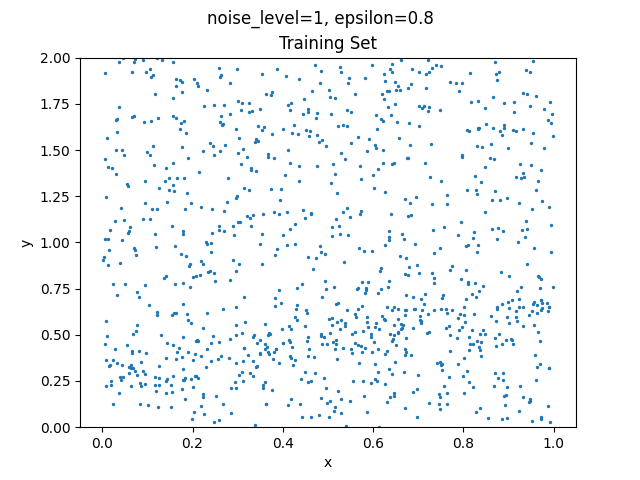
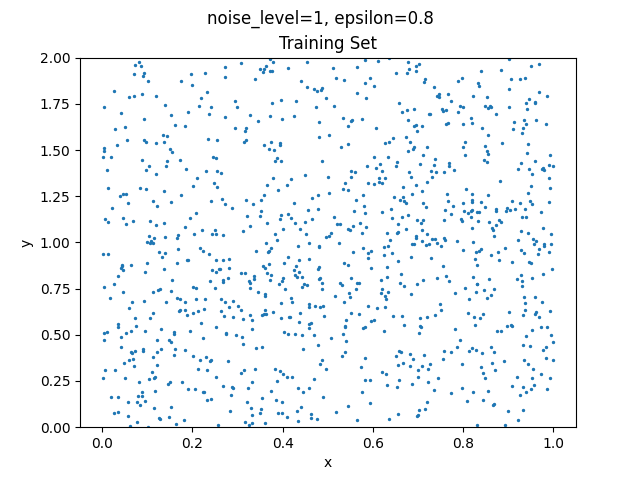
edge

diff --git a/main.py b/main.py
@@ -160,7 +160,50 @@ def test_random_contamination(training_size: int = 100, testing_size: int = 900,
     plt.savefig("random_contamination")
 
 
+def test_edge_contamination(training_size: int = 100, testing_size: int = 900, noise_level: float = 0.1, epsilon: float = 0.1):
+    rng = np.random.default_rng()
+    w = generate_random_weights()
+    
+    X_training, y_training = generate_X_and_y(w, training_size, noise_level) 
+    X_contamination = np.max(X_training) - rng.random((int(training_size * epsilon/ 2), 1)) /10
+    Y_contamination = rng.random(int(training_size * epsilon/ 2))/10  * w.shape[0]
+    indices = rng.choice(training_size, int(training_size * epsilon /2), False)
+    X_training[indices] = X_contamination
+    y_training[indices] = Y_contamination
+
+    X_contamination = rng.random((int(training_size * epsilon/ 2), 1)) /10
+    Y_contamination = np.max(y_training) - rng.random(int(training_size * epsilon/ 2)) /10 *  w.shape[0]
+    indices = rng.choice(training_size, int(training_size * epsilon /2), False)
+    X_training[indices] = X_contamination
+    y_training[indices] = Y_contamination
+    X_testing, y_testing = generate_X_and_y(w, 1000, 0)
+    w_bar = mini_batch_gradient_descent(X_training, y_training, batch_size=100, epsilon=epsilon)
+    y_bar = predict(X_testing, w_bar)
+    mse = mean_squared_error(y_bar, y_testing)
+    print(f"True weight vector: {w}")
+    print(f"Estimated weight vector: {w_bar}")
+    plt.figure()
+    plt.scatter(X_training[:, 0], y_training, s=2)
+    plt.suptitle("noise_level=0, epsilon=0")
+    plt.title("Training Set")
+    plt.xlabel("x")
+    plt.ylabel("y")
+    plt.ylim(0, w.shape[0])
+    plt.savefig("edge_contamination_training")
+    plt.figure()
+    plt.scatter(X_testing[:, 0], y_testing, s=2, c="blue", label="Ground Truth")
+    plt.scatter(X_testing[:, 0], y_bar, s=2, c="red", label="Estimation")
+    plt.suptitle("noise_level=0, epsilon=0")
+    plt.title(f"Testing Set, MSE={mse}")
+    plt.xlabel("x")
+    plt.ylabel("y")
+    plt.ylim(0, w.shape[0])
+    plt.legend()
+    plt.savefig("edge_contamination")
+
+
 if __name__ == "__main__":
     test_no_noise_no_contamination(1000, 9000)
     test_no_contamination(1000, 9000, 1)
     test_random_contamination(1000, 9000, 1, 0.8)
+    test_edge_contamination(1000, 9000, 1, 0.8)
